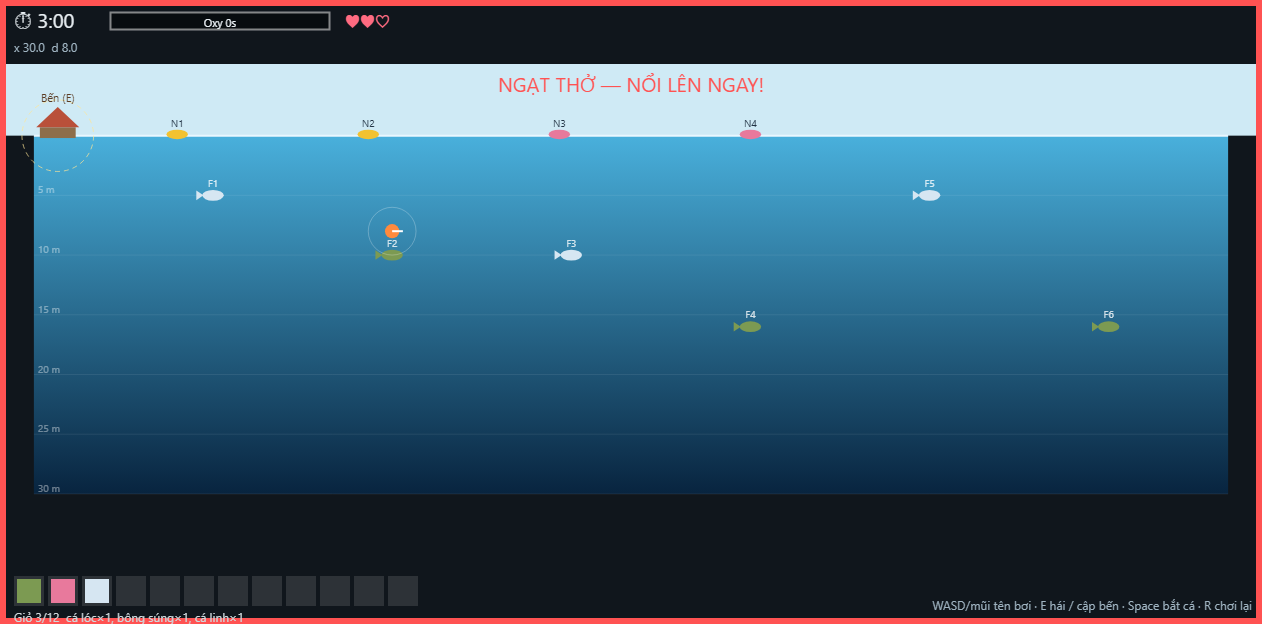
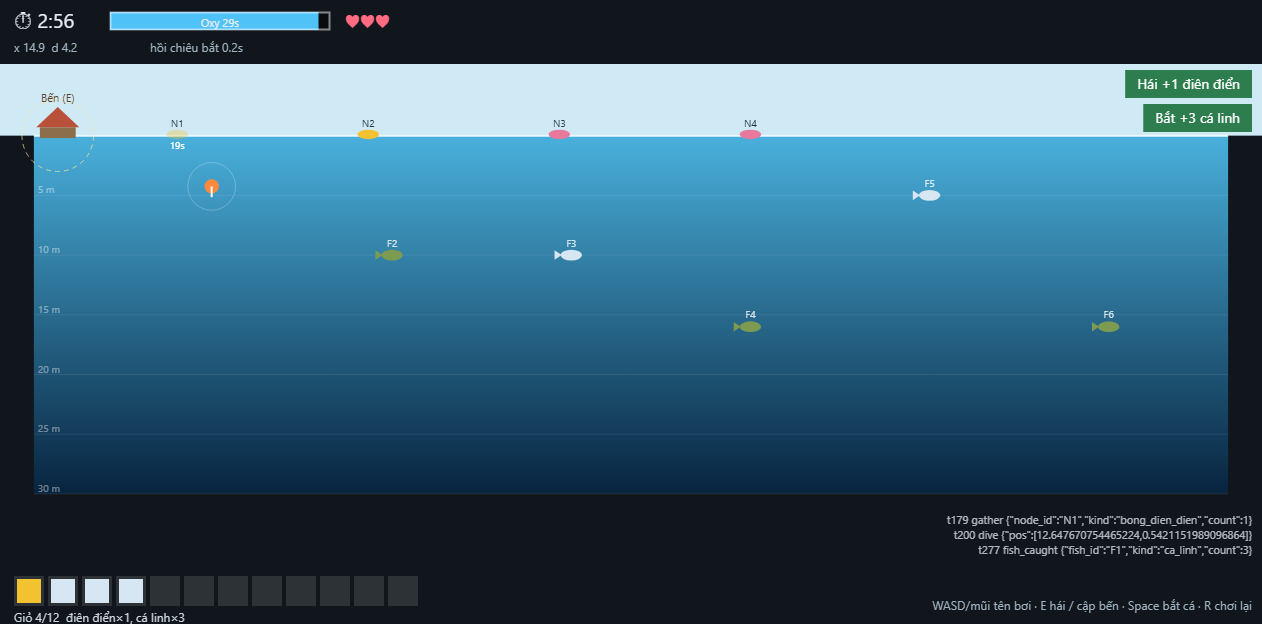
Docs: verification và proof Phase 1 trên luật thật
phase-check 7/7, 117 test xanh, đạt 28/29 AC; còn AC-QA-04 chờ nhật ký AI của TV1.

diff --git a/docs/verification/phase-1.md b/docs/verification/phase-1.md
@@ -1,41 +1,42 @@
 # Ma trận truy vết Phase 1
 
-> Trạng thái ngày 2026-11-21 trên nhánh `feature/ui-qa-phase-1`, đã gộp `origin/main` (`38a4e99`). Luật khách (lát 3) đã có; luật gather và quan lát 4 **chưa có trong repo**, nên các AC phụ thuộc vẫn ghi chưa đạt. Chạy lại `phase-check` và cập nhật bảng này sau khi gộp code của TV1.
+> Trạng thái ngày 2026-11-21 trên nhánh `feature/ui-qa-phase-1`, đã gộp `origin/main` (`949028a`, contract v1.1). Kết quả dưới đây chạy trên luật thật trong repo.
 
 | AC | Cách kiểm chứng | Bằng chứng (link `docs/proof/phase-1/...`) | Kết quả (đạt / chưa đạt — ghi trung thực) |
 |---|---|---|---|
-| AC-G-01 | `Oxygen.test_dive_and_surface_events` | Chưa có `tests/test_gather_rules.py` | Chưa đạt: chờ TV1 |
-| AC-G-02 | `Oxygen.test_oxygen_drains_underwater_and_refills_at_surface` | Chưa có test | Chưa đạt: chờ TV1 |
-| AC-G-03 | `Oxygen.test_oxygen_empty_then_choke_every_interval` | Chưa có test | Chưa đạt: chờ TV1 |
-| AC-G-04 | `Oxygen.test_faint_empties_hold_and_writes_empty_inventory` | Chưa có test | Chưa đạt: chờ TV1 |
-| AC-G-05 | `Harvest.*` | Chưa có test | Chưa đạt: chờ TV1 |
-| AC-G-06 | `Harvest.test_no_harvest_underwater`, `test_nearest_tie_picks_smaller_id` | Chưa có test | Chưa đạt: chờ TV1 |
-| AC-G-07 | `Catch.*` | Chưa có test | Chưa đạt: chờ TV1 |
-| AC-G-08 | `Harvest.test_hold_full_on_harvest`, `Catch.test_partial_room_fills_hold_then_hold_full` | Chưa có test | Chưa đạt: chờ TV1 |
-| AC-G-09 | Smoke `test_inv_01_*`; `Catch.test_dock_after_catch_writes_inventory` | [unittest.txt](../proof/phase-1/unittest.txt) | Chưa đạt: cập bến ghi kho đã xanh, phần sau khi bắt cá chưa có test |
-| AC-Q-01 | `test_ac_q_01_*` | [unittest.txt](../proof/phase-1/unittest.txt) | Đạt (theo clarify #7–12, PO còn đối chiếu PRD-0) |
-| AC-Q-02 | `test_ac_q_02_*` | [unittest.txt](../proof/phase-1/unittest.txt) | Đạt (theo clarify #7–12, PO còn đối chiếu PRD-0) |
-| AC-Q-03 | `test_ac_q_03_*` | [unittest.txt](../proof/phase-1/unittest.txt) | Đạt (theo clarify #7–12, PO còn đối chiếu PRD-0) |
-| AC-Q-04 | `test_ac_q_04_*` | [unittest.txt](../proof/phase-1/unittest.txt) | Đạt (theo clarify #7–12, PO còn đối chiếu PRD-0) |
-| AC-Q-05 | `test_ac_q_05_*` | [unittest.txt](../proof/phase-1/unittest.txt) | Đạt (theo clarify #7–12, PO còn đối chiếu PRD-0) |
-| AC-Q-06 | `ScenarioConflicts.test_ac_q_06_*` | [unittest.txt](../proof/phase-1/unittest.txt) | Đạt (theo clarify #7–12, PO còn đối chiếu PRD-0) |
-| AC-Q-07 | `test_ac_q_07_*` | [unittest.txt](../proof/phase-1/unittest.txt) | Chưa đạt: test đỏ, chờ lát 4 của TV1 |
-| AC-Q-08 | `test_ac_q_08_*` | [unittest.txt](../proof/phase-1/unittest.txt) | Chưa đạt: test đỏ, chờ lát 4 của TV1 |
-| AC-Q-09 | `test_ac_q_09_*` | [unittest.txt](../proof/phase-1/unittest.txt) | Chưa đạt: test đỏ, chờ lát 4 của TV1 |
-| AC-Q-10 | `test_ac_q_10_*` | [unittest.txt](../proof/phase-1/unittest.txt) | Chưa đạt: test đỏ, chờ lát 4 của TV1 |
-| AC-Q-11 | `test_ac_q_11_*` | [unittest.txt](../proof/phase-1/unittest.txt) | Chưa đạt: test đỏ, chờ lát 4 của TV1 |
-| AC-Q-12 | `test_ac_q_12_*` | [unittest.txt](../proof/phase-1/unittest.txt) | Chưa đạt: test đỏ, chờ lát 4 của TV1 |
-| AC-UI-01 | Chơi gather bằng phím trên trình duyệt | [ui-gather-hud.png](../proof/phase-1/ui-gather-hud.png), [ui-gather-end-toast.png](../proof/phase-1/ui-gather-end-toast.png) | Chưa đạt: HUD và cập bến chạy, chưa hái/bắt cá được vì thiếu luật gather |
-| AC-UI-02 | Chơi quan với `--inventory` lấy từ lượt gather | [ui-quan-inventory-flow.png](../proof/phase-1/ui-quan-inventory-flow.png), [ui-quan-hud.png](../proof/phase-1/ui-quan-hud.png) | Chưa đạt: kho từ lượt gather nạp đúng và khách thật hiện trên HUD; bếp, tiền, boa chưa đổi vì thiếu lát 4 |
+| AC-G-01 | `Oxygen.test_dive_and_surface_events` | [unittest.txt](../proof/phase-1/unittest.txt) | Đạt (theo giả định clarify #1–5, chờ PO chốt) |
+| AC-G-02 | `Oxygen.test_oxygen_drains_underwater_and_refills_at_surface` | [unittest.txt](../proof/phase-1/unittest.txt) | Đạt (theo giả định clarify #1–5, chờ PO chốt) |
+| AC-G-03 | `Oxygen.test_oxygen_empty_then_choke_every_interval` | [unittest.txt](../proof/phase-1/unittest.txt) | Đạt (theo giả định clarify #1–5, chờ PO chốt) |
+| AC-G-04 | `Oxygen.test_faint_empties_hold_and_writes_empty_inventory` | [unittest.txt](../proof/phase-1/unittest.txt) | Đạt (theo giả định clarify #1–5, chờ PO chốt) |
+| AC-G-05 | `Harvest.*` | [unittest.txt](../proof/phase-1/unittest.txt) | Đạt (theo giả định clarify #1–5, chờ PO chốt) |
+| AC-G-06 | `Harvest.test_no_harvest_underwater`, `test_nearest_tie_picks_smaller_id` | [unittest.txt](../proof/phase-1/unittest.txt) | Đạt (theo giả định clarify #1–5, chờ PO chốt) |
+| AC-G-07 | `Catch.*` | [unittest.txt](../proof/phase-1/unittest.txt) | Đạt (theo giả định clarify #1–5, chờ PO chốt) |
+| AC-G-08 | `Harvest.test_hold_full_on_harvest`, `Catch.test_partial_room_fills_hold_then_hold_full` | [unittest.txt](../proof/phase-1/unittest.txt) | Đạt (theo giả định clarify #1–5, chờ PO chốt) |
+| AC-G-09 | Smoke `test_inv_01_*`; `Catch.test_dock_after_catch_writes_inventory` | [unittest.txt](../proof/phase-1/unittest.txt) | Đạt (theo giả định clarify #1–5, chờ PO chốt) |
+| AC-Q-01 | `test_ac_q_01_*` | [unittest.txt](../proof/phase-1/unittest.txt) | Đạt (theo clarify, PO còn đối chiếu PRD-0) |
+| AC-Q-02 | `test_ac_q_02_*` | [unittest.txt](../proof/phase-1/unittest.txt) | Đạt (theo clarify, PO còn đối chiếu PRD-0) |
+| AC-Q-03 | `test_ac_q_03_*` | [unittest.txt](../proof/phase-1/unittest.txt) | Đạt (theo clarify, PO còn đối chiếu PRD-0) |
+| AC-Q-04 | `test_ac_q_04_*` | [unittest.txt](../proof/phase-1/unittest.txt) | Đạt (theo clarify, PO còn đối chiếu PRD-0) |
+| AC-Q-05 | `test_ac_q_05_*` | [unittest.txt](../proof/phase-1/unittest.txt) | Đạt (theo clarify, PO còn đối chiếu PRD-0) |
+| AC-Q-06 | `ScenarioConflicts.test_ac_q_06_*` | [unittest.txt](../proof/phase-1/unittest.txt) | Đạt (theo clarify, PO còn đối chiếu PRD-0) |
+| AC-Q-07 | `test_ac_q_07_*` | [unittest.txt](../proof/phase-1/unittest.txt) | Đạt (theo clarify, PO còn đối chiếu PRD-0) |
+| AC-Q-08 | `test_ac_q_08_*` | [unittest.txt](../proof/phase-1/unittest.txt) | Đạt (theo clarify, PO còn đối chiếu PRD-0) |
+| AC-Q-09 | `test_ac_q_09_*` | [unittest.txt](../proof/phase-1/unittest.txt) | Đạt (theo clarify, PO còn đối chiếu PRD-0) |
+| AC-Q-10 | `test_ac_q_10_*` | [unittest.txt](../proof/phase-1/unittest.txt) | Đạt (theo clarify, PO còn đối chiếu PRD-0) |
+| AC-Q-11 | `test_ac_q_11_*` | [unittest.txt](../proof/phase-1/unittest.txt) | Đạt (theo clarify, PO còn đối chiếu PRD-0) |
+| AC-Q-12 | `test_ac_q_12_*` | [unittest.txt](../proof/phase-1/unittest.txt) | Đạt (theo clarify, PO còn đối chiếu PRD-0) |
+| AC-UI-01 | Chơi gather bằng phím trên trình duyệt | [ui-gather-hud.png](../proof/phase-1/ui-gather-hud.png), [ui-gather-choke.png](../proof/phase-1/ui-gather-choke.png), [ui-gather-end-toast.png](../proof/phase-1/ui-gather-end-toast.png) | Đạt: chơi bằng phím trên Chrome headless, từ bến, hái, lặn bắt cá, về bến |
+| AC-UI-02 | Chơi quan với `--inventory` lấy từ lượt gather | [ui-quan-inventory-flow.png](../proof/phase-1/ui-quan-inventory-flow.png), [ui-quan-hud.png](../proof/phase-1/ui-quan-hud.png), [ui-quan-paid.png](../proof/phase-1/ui-quan-paid.png) | Đạt: dùng kho của lượt gather, nấu, bưng, phục vụ, nhận 144k, uy tín 3.2 |
 | AC-UI-03 | `tests/test_live.py` | [unittest.txt](../proof/phase-1/unittest.txt) | Đạt |
-| AC-UI-04 | Ảnh chụp hai chế độ | [ui-gather-hud.png](../proof/phase-1/ui-gather-hud.png), [ui-quan-hud.png](../proof/phase-1/ui-quan-hud.png) | Đạt (ảnh dùng scenario dựng sẵn) |
+| AC-UI-04 | Ảnh chụp hai chế độ | [ui-gather-hud.png](../proof/phase-1/ui-gather-hud.png), [ui-quan-hud.png](../proof/phase-1/ui-quan-hud.png) | Đạt |
 | AC-QA-01 | Đối chiếu bảng này với các spec | File này | Đạt |
-| AC-QA-02 | `tests/test_quan_rules.py` có test cho AC-Q-01..12 | [tests/test_quan_rules.py](../../tests/test_quan_rules.py) | Đạt (test đã viết; phần lát 4 còn đỏ) |
+| AC-QA-02 | `tests/test_quan_rules.py` có test cho AC-Q-01..12 | [tests/test_quan_rules.py](../../tests/test_quan_rules.py) | Đạt |
 | AC-QA-03 | 2 skill và mục Skills trong `AGENTS.md` | [phase-check](../../.agents/skills/phase-check/SKILL.md), [clarify-log](../../.agents/skills/clarify-log/SKILL.md) | Đạt |
 | AC-QA-04 | `docs/ai-usage-log.md` có mục của cả 3 người | [ai-usage-log.md](../ai-usage-log.md) | Chưa đạt: đã có TV2 và TV3, còn thiếu TV1 |
 
 ## Đánh giá ngắn
-- Yêu cầu nào đạt / chưa đạt: đạt 11/29 AC (Q-01..06, UI-03, UI-04, QA-01..03). 18 AC còn lại: G-01..09 và Q-07..12 chờ luật của TV1; UI-01, UI-02 phụ thuộc các luật đó; QA-04 chờ TV1 ghi nhật ký AI.
-- `phase-check` đạt 6/7 mục. Mục không đạt là unittest: 76 test, 8 test đỏ, đều là test lát 4 trong `tests/test_quan_rules.py`.
-- Bộ test đã được chạy với một bản lát 4 viết tạm ngoài repo và xanh 76/76. Điều này chỉ cho thấy test thỏa mãn được, không phải bằng chứng luật của nhóm đúng.
-- Điều cần chỉnh cho phase sau: gộp luật sớm hơn để QA kiểm trên code thật; PO chốt clarify #1–5 và đối chiếu #7–12 với PRD-0.
+- Yêu cầu nào đạt / chưa đạt: đạt 28/29 AC. Còn AC-QA-04 vì `docs/ai-usage-log.md` chưa có mục của TV1.
+- `phase-check` đạt 7/7 mục: 117 test xanh, không có test bị bỏ qua, headless 2 mode giống từng byte, luồng kho gather -> quan thông.
+- Giao diện đã chơi bằng phím trên Chrome headless, phát đủ 13 loại toast trong spec và không có lỗi JavaScript. Chưa có người chơi thử trực tiếp.
+- Nhiều AC dựa trên giả định trong `docs/clarify.md`; PO cần chốt các dòng còn ghi chờ với PRD-0.
+- Điều cần chỉnh cho phase sau: gộp `main` thường xuyên hơn để test và UI không lệch tên trường.

diff --git a/docs/proof/phase-1/README.md b/docs/proof/phase-1/README.md
@@ -1,18 +1,20 @@
 # Bằng chứng Phase 1
 
-Tạo ngày 2026-11-21 trên nhánh `feature/ui-qa-phase-1`, sau khi gộp `origin/main` (`38a4e99`). Đã có luật khách (lát 3); luật gather và quan lát 4 **chưa có trong repo**.
+Tạo ngày 2026-11-21 trên nhánh `feature/ui-qa-phase-1`, sau khi gộp `origin/main` (`949028a`, contract v1.1). Tất cả chạy trên luật thật trong repo.
 
 | File | Nội dung |
 |---|---|
-| `phase-check.txt` | Bảng kết quả của skill `phase-check`: 6/7 mục đạt |
-| `unittest.txt` | Log `unittest -v`: 76 test, 8 test đỏ, đều là test lát 4 trong `tests/test_quan_rules.py` |
+| `phase-check.txt` | Bảng kết quả của skill `phase-check`: 7/7 mục đạt |
+| `unittest.txt` | Log `unittest -v`: 117 test xanh, không có test bị bỏ qua |
 | `gather-seed1.jsonl.txt`, `quan-seed1.jsonl.txt` | JSONL headless seed 1, 600 tick |
 | `cmp.txt` | So byte hai lần chạy cùng seed |
-| `ui-gather-hud.png` | HUD gather với scenario dựng sẵn: oxy 0, cảnh báo ngạt, giỏ 3/12 |
-| `ui-gather-end-toast.png` | Cập bến bằng phím E, toast `gather_end` |
-| `ui-quan-hud.png` | HUD quan với scenario dựng sẵn: bếp đang nấu, khách chờ, tay cầm món |
-| `ui-quan-inventory-flow.png` | Quan nạp kho từ lượt gather vừa cập bến, khách thật đến theo lịch |
+| `ui-gather-hud.png` | Chơi gather: đã hái điên điển, lặn bắt cá linh, giỏ 4/12 |
+| `ui-gather-choke.png` | Hết oxy dưới nước: cảnh báo ngạt, mất Máu (scenario đặt sẵn oxy thấp) |
+| `ui-gather-end-toast.png` | Về bến bằng phím E, toast kết thúc buổi sáng |
+| `ui-quan-inventory-flow.png` | Quán nạp kho từ lượt gather vừa chơi, khách đến theo lịch |
+| `ui-quan-hud.png` | Bếp đang nấu món của khách, có thanh tiến độ |
+| `ui-quan-paid.png` | Khách ăn xong trả 144k gồm 24k boa, uy tín 3.2 |
 
 Tạo lại log: `python .agents/skills/phase-check/phase_check.py --proof docs/proof/phase-1`.
 
-Các ảnh chụp từ code trong repo bằng Chrome headless. Giỏ của lượt gather được dựng sẵn vì chưa có luật hái và bắt cá. Trạng thái bếp trong `ui-quan-hud.png` cũng dựng sẵn vì chưa có lát 4.
+Ảnh được chụp từ Chrome headless, thao tác bằng sự kiện phím thật qua giao diện.

diff --git a/docs/ai-usage-log.md b/docs/ai-usage-log.md
@@ -4,4 +4,4 @@
 |---|---|---|---|---|---|
 | 1 | lit1numyt (TV2) | Claude Code (Opus 5.5) | Lát 3 quan: khung `step()`, khách đến/chọn món/giữ chỗ/kiên nhẫn, kiểm scenario quan (mã 2), `tests/test_quan_customers.py` | — | Spec ghi trường khách `dish`/`patience_ticks`; AI đối chiếu client khung (`index.html` đọc `dish_id`, `patience_ticks_left`) và sửa spec theo khung (clarify #7). |
 | 2 | lit1numyt (TV2) | Claude Code (Opus 5.5) | Quán v1.1 (bếp, phục vụ, tiền, đóng ca, 2 bếp/4 bàn, 6 món), `--mode day`, Shop, pause, contract 1.1 (quan/menu/day_plan/shop), 26 test mới | — | AI tự viết sai 2 kỳ vọng test (đếm số bước pause thiếu 1; tìm snapshot ở tick không ghi) — test đỏ, đọc lại luật pause trong ticket 4.2 rồi sửa test, luật giữ nguyên. |
-| 1 | Đoàn Sỹ Hưng | Claude Code / Claude Opus 5.5 | Viết `test_quan_rules.py`, HUD + toast, skill `phase-check` và `clarify-log`, verification, proof | Không đo | Ảnh UI đầu tiên chụp trước khi input có tác dụng nên không thấy toast; đã đổi sang lái Chrome bằng phím thật. Test quan được kiểm bằng bản luật tạm ngoài repo, không tính là bằng chứng luật của nhóm. HUD và test ban đầu theo tên trường spec cũ (`dish`, `patience_ticks`); phát hiện khi đối chiếu `main` và đã đổi theo clarify #7. |
+| 1 | Đoàn Sỹ Hưng | Claude Code / Claude Opus 5.5 | Viết `test_quan_rules.py`, HUD + toast, skill `phase-check` và `clarify-log`, verification, proof | Không đo | Ảnh UI đầu tiên chụp trước khi input có tác dụng nên không thấy toast; đã đổi sang lái Chrome bằng phím thật. Test quan được kiểm bằng bản luật tạm ngoài repo, không tính là bằng chứng luật của nhóm. HUD và test ban đầu theo tên trường spec cũ (`dish`, `patience_ticks`); phát hiện khi đối chiếu `main` và đã đổi theo clarify #7. Khi gộp v1.1, kiểm bằng cách chơi thật mới thấy còn thiếu tên 3 món mới và toast đóng ca báo sai là mất uy tín; đã sửa. |

diff --git a/docs/plan/phase-1/ui-qa.md b/docs/plan/phase-1/ui-qa.md
@@ -14,14 +14,14 @@ Nhánh: `feature/ui-qa-phase-1` (gộp ba việc dự kiến `feature/ui-hud`, `
 ## Bước 2 — UI (0:30–0:45)
 - [x] HUD gather + quan trong `chonoi/web/index.html` theo bảng trường snapshot; toast sự kiện.
 - [x] `test_live.py` xanh; luồng gather → `--inventory-out kho.json` → quan `--inventory kho.json` nạp đúng kho.
-- [ ] Chơi trọn gather và quan trên luật thật (chờ TV1 đẩy gather và lát 4).
+- [x] Chơi trọn gather và quan trên luật thật.
 
 ## Bước 3 — Bằng chứng (0:45–0:55)
 - [x] Log unittest, JSONL mẫu (đuôi `.jsonl.txt`), kết quả `cmp`, ảnh UI vào `docs/proof/phase-1/`.
 - [x] Điền kết quả trung thực vào `docs/verification/phase-1.md`.
 - [ ] Nhắc cả nhóm ghi `docs/ai-usage-log.md` (đã có TV2, TV3; còn TV1).
 - [x] Đồng bộ với `main`, đổi HUD và test sang tên trường clarify #7, chạy lại `phase-check --proof`.
-- [ ] Chạy lại `phase-check --proof` và cập nhật verification sau khi có luật của TV1.
+- [x] Chạy lại `phase-check --proof` và cập nhật verification trên luật thật.
 
 ## Dự phòng
 Người dự phòng của TV3 là TV2 (test quan); nếu UI trễ, ưu tiên bằng chứng + verification trước HUD.

diff --git a/docs/standup.md b/docs/standup.md
@@ -4,4 +4,4 @@
 |---|---|---|---|---|
 | 1 | lit1numyt (TV2) | Khung `step()` quan + lát 3 khách + kiểm scenario quan; 15 test mới, toàn bộ unittest xanh | TV1 điền lát 4 trên khung; PO đối chiếu clarify #7–12 với PRD-0 | Chưa có nguyên văn PRD-0 mục D/E/F trong repo |
 | 2 | lit1numyt (TV2) | Nhận cả `sim/quan` (bếp P1 chưa có trên main) + headless day/Shop/pause; 76 test xanh; smoke tích hợp ở `docs/proof/phase-2/integration.txt` | Gộp vào main, TV1 thêm gather v1.1 (cá, Cá Sấu), TV3 nối UI day | Gather lát 1–2 vẫn TODO trên main; chưa có tag `phase-1` |
-| 1 | Đoàn Sỹ Hưng (TV3) | Test hộp đen quan, HUD + toast, 2 skill, verification, proof | Chạy lại `phase-check` khi có luật gather và lát 4, cập nhật verification | Chờ TV1; 8 test lát 4 đang đỏ nên PR còn ở dạng draft |
+| 1 | Đoàn Sỹ Hưng (TV3) | Test hộp đen quan, HUD + toast, 2 skill, verification, proof | Chờ review PR #5 | TV1 chưa ghi nhật ký AI (AC-QA-04) |
